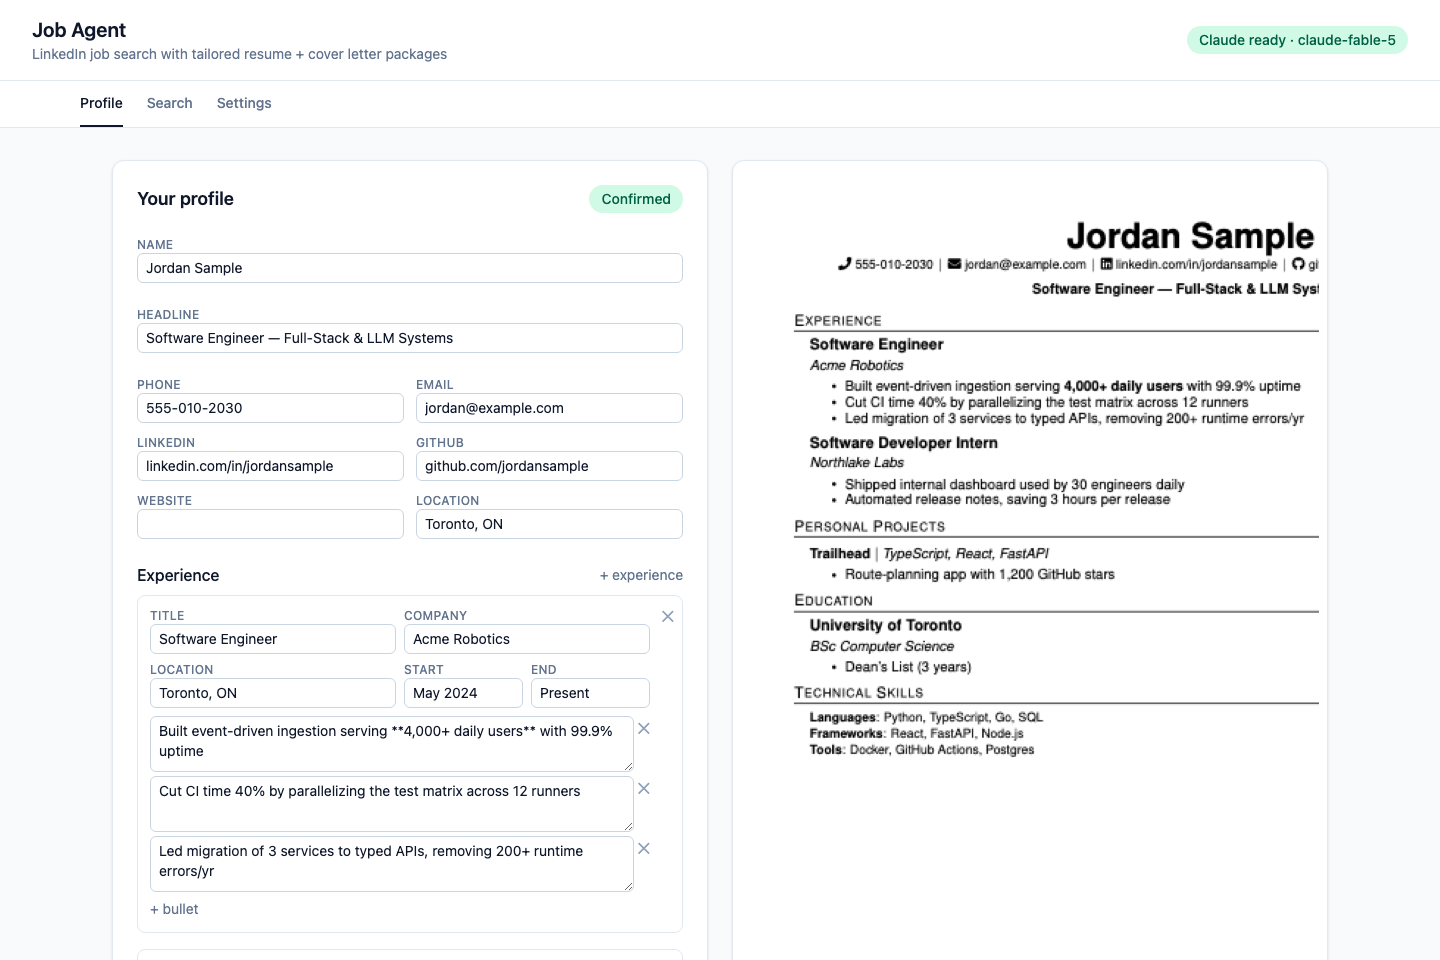
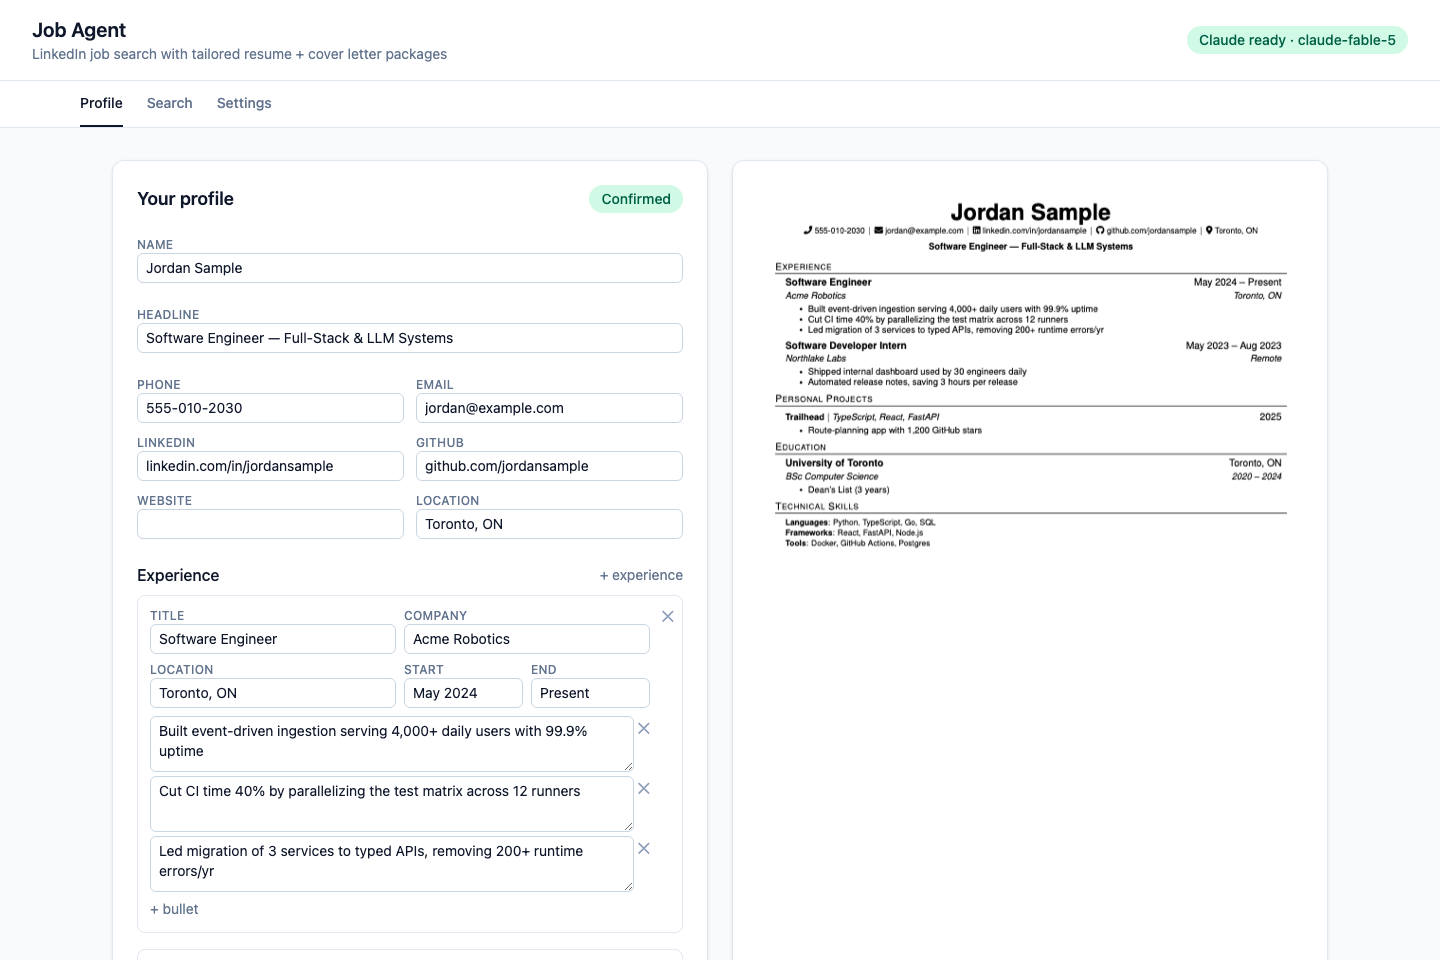
Apply M5 review round 1: unbounded page limit N, Linux setup deps, MIT license
- Page limit is the user's N again (PLAN.md): PUT /api/settings accepts
  any strictly positive DB-safe integer (rejects zero, negatives,
  booleans, strings, and values past SQLite's integer range); Settings
  uses a numeric input with integer-guarded save. Contract test covers
  4 and 100 as valid and the full rejection list.
- setup.sh validates Node against Vite's real requirement (^20.19 or
  >=22.12) instead of accepting any Node 20+, and on Linux installs
  Chromium's system libraries via playwright install-deps (with a
  copy-paste sudo fallback when not root).
- README recovery wording corrected: checkpoint flow is solve -> press
  Connect -> search resumes on its own (banner text matched), and the
  kill-recovery claim now states that only a call still in flight at
  the kill re-runs — no completed, checkpointed LLM call is repeated.
- LICENSE added (MIT, owner's choice) with a README license section
  noting the claude.ai sign-in redistribution caveat.
- Screenshots recaptured: preview raster sized to the pane (the earlier
  right-edge clipping was raster crop, not template overflow), sample
  bullets no longer show literal ** markers, pages captured at scroll
  top.

196 backend tests, tsc and Vite build clean.

Claude-Session: https://claude.ai/code/session_01L2bVvh9g62hQbZwMaxZyX8

Changed region(s): [[0.5312, 0.1875, 0.9375, 0.8125], [0.2812, 0.75, 0.4375, 0.7812], [0.8438, 0.4688, 0.9062, 0.5]]

diff --git a/frontend/src/pages/Settings.tsx b/frontend/src/pages/Settings.tsx
@@ -71,24 +71,28 @@ export default function Settings() {
           <label className="text-sm font-medium" htmlFor="page-limit">
             Resume page limit
           </label>
-          <select
+          <input
             id="page-limit"
-            className="rounded border border-slate-300 px-2 py-1 text-sm"
-            value={limit}
+            type="number"
+            min={1}
+            step={1}
+            className="w-20 rounded border border-slate-300 px-2 py-1 text-sm"
+            value={Number.isNaN(limit) ? '' : limit}
             onChange={(e) => {
-              setLimit(Number(e.target.value))
+              setLimit(e.target.value === '' ? NaN : Number(e.target.value))
               setSaved(false)
             }}
-          >
-            {[1, 2, 3].map((n) => (
-              <option key={n} value={n}>
-                {n} page{n > 1 ? 's' : ''}
-              </option>
-            ))}
-          </select>
+          />
+          <span className="text-sm text-slate-500">
+            page{limit === 1 ? '' : 's'}
+          </span>
           <button
             className="rounded bg-slate-900 px-3 py-1 text-sm font-medium text-white disabled:opacity-40"
-            disabled={limit === settings.resume_page_limit}
+            disabled={
+              !Number.isInteger(limit) ||
+              limit < 1 ||
+              limit === settings.resume_page_limit
+            }
             onClick={() => void save()}
           >
             Save

diff --git a/frontend/src/RecoveryBanners.tsx b/frontend/src/RecoveryBanners.tsx
@@ -54,7 +54,7 @@ export default function RecoveryBanners({
     banners.push({
       key: 'li-captcha',
       tone: 'bg-rose-50 text-rose-800 border-rose-200',
-      text: 'LinkedIn checkpoint hit — solve it in the browser window, then resume the search. The app never bypasses checkpoints.',
+      text: 'LinkedIn checkpoint hit — solve it in the browser window, then press Connect; the search resumes on its own. The app never bypasses checkpoints.',
       action: { label: 'Go to Search', run: onOpenSearch },
     })
   }

diff --git a/backend/tests/test_api_profile.py b/backend/tests/test_api_profile.py
@@ -92,14 +92,19 @@ def test_settings_roundtrip_and_validation(client):
     assert "status" in body["engine"]
     assert isinstance(body["latex_engines"], list)
 
-    assert client.put("/api/settings", json={"resume_page_limit": 2}).status_code == 200
-    assert client.get("/api/settings").json()["resume_page_limit"] == 2
+    # Any strictly positive integer is a valid N (PLAN.md), not a preset.
+    for good in (2, 4, 100):
+        assert (
+            client.put("/api/settings", json={"resume_page_limit": good}).status_code
+            == 200
+        )
+        assert client.get("/api/settings").json()["resume_page_limit"] == good
 
     from backend.tailor import pipeline as tailor_pipeline
 
-    assert tailor_pipeline.resume_page_limit() == 2  # gate 3 reads this
+    assert tailor_pipeline.resume_page_limit() == 100  # gate 3 reads this
 
-    for bad in (0, 4, "2", True, None):
+    for bad in (0, -1, "2", True, False, None, 2**31):
         res = client.put("/api/settings", json={"resume_page_limit": bad})
         assert res.status_code == 422, bad
-    assert client.get("/api/settings").json()["resume_page_limit"] == 2
+    assert client.get("/api/settings").json()["resume_page_limit"] == 100

diff --git a/backend/api/routes.py b/backend/api/routes.py
@@ -107,10 +107,13 @@ async def get_settings():
 @router.put("/settings")
 async def put_settings(body: dict):
     limit = body.get("resume_page_limit")
-    if not isinstance(limit, int) or isinstance(limit, bool) or not 1 <= limit <= 3:
+    # Any strictly positive integer the DB can hold (PLAN.md: the page
+    # limit is the user's N, not a preset) — reject zero, negatives,
+    # booleans, strings, and values past SQLite's integer range.
+    if not isinstance(limit, int) or isinstance(limit, bool) or not 1 <= limit < 2**31:
         raise HTTPException(
             status_code=422,
-            detail="resume_page_limit must be an integer between 1 and 3.",
+            detail="resume_page_limit must be a positive integer.",
         )
     # The limit is read once at gate 3 and pinned into each package's
     # identity, so this change only shapes future selections — packages

diff --git a/README.md b/README.md
@@ -150,10 +150,12 @@ Every stop state is autonomous-by-default and visible: a banner explains
 what happened and the way out. Claude usage limit → pauses and resumes
 itself; Claude sign-in expired → banner with the login command
 (Settings has a re-check button); LinkedIn checkpoint → search stops
-cleanly, you solve it in the browser window and press Resume; LinkedIn
-session expired → reconnect from the Search tab. Interrupted work —
-including a killed server mid-generation — resumes from its last
-checkpoint without repeating paid LLM calls.
+cleanly, you solve it in the browser window and press Connect — the
+search then resumes on its own; LinkedIn session expired → reconnect
+from the Search tab. Interrupted work — including a killed server
+mid-generation — resumes from its last checkpoint: no completed,
+checkpointed LLM call is ever repeated (only a call that was still in
+flight at the moment of the kill runs again).
 
 ## Development
 
@@ -167,3 +169,9 @@ uv run python -m backend.tests.smoke_llm  # live engine smoke test (uses your su
 (SQLite state, SSE progress), React + Vite + Tailwind frontend, Playwright
 supervisor for LinkedIn, Tectonic/pdflatex for PDFs, Claude Agent SDK for
 all reasoning.
+
+## License
+
+[MIT](LICENSE). Note the redistributor caveat above: shipping a product
+that offers claude.ai sign-in needs Anthropic's approval regardless of
+this code's license.
